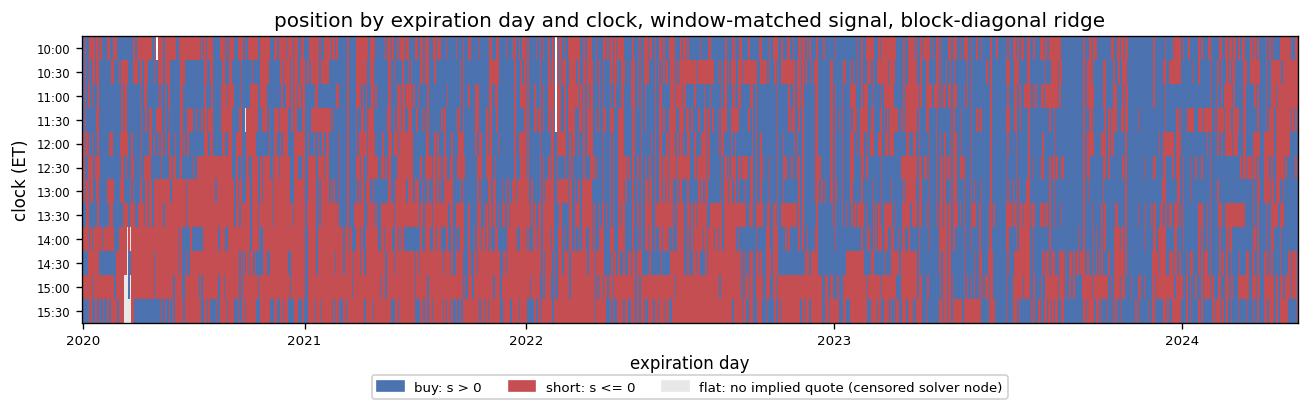
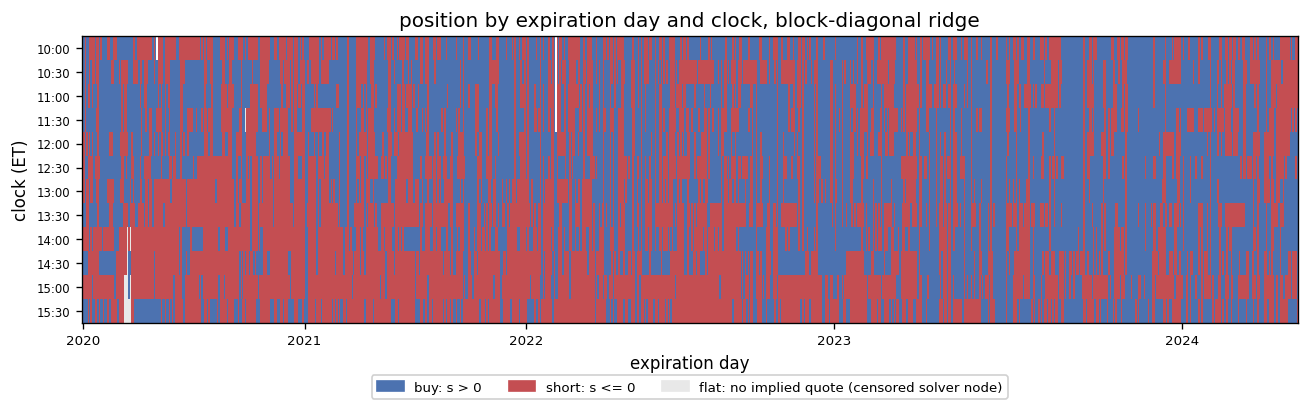
Intraday §9 fingerprint title: drop 'window-matched signal'.
Claude-Session: https://claude.ai/code/session_01CW5SQHWWiRB87CNNDC1mPd

Changed region(s): [[0.2139, 0.0292, 0.8556, 0.0876]]

diff --git a/notebooks/_write_0dte_intraday_nb.py b/notebooks/_write_0dte_intraday_nb.py
@@ -1541,7 +1541,7 @@ ticks = [int(np.argmax(yrs == y)) for y in sorted(set(yrs))]
 ax.set_xticks(ticks, sorted(set(yrs)), fontsize=8)
 ax.set_xlabel("expiration day")
 ax.set_ylabel("clock (ET)")
-ax.set_title("position by expiration day and clock, window-matched signal, block-diagonal ridge")
+ax.set_title("position by expiration day and clock, block-diagonal ridge")
 from matplotlib.patches import Patch
 ax.legend(
     handles=[Patch(color="#4c72b0", label="buy: s > 0"), Patch(color="#c44e52", label="short: s <= 0"),
